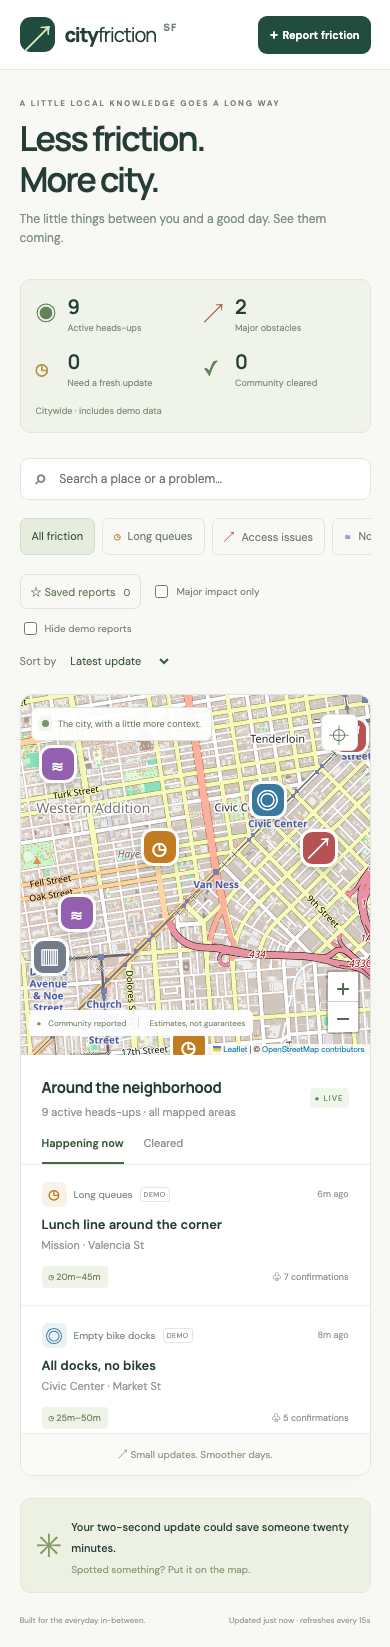
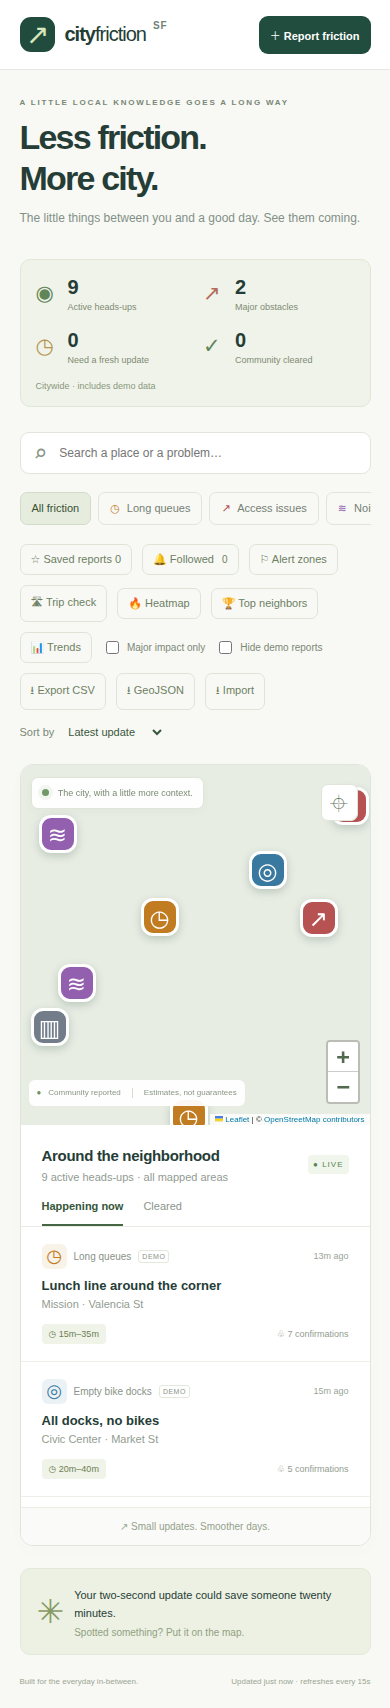
Refresh README screenshots and scope note for v1.2.0
- Regenerate all four screenshots (desktop, mobile, report detail,
  report form) against the current UI with alert zones, trip check,
  heatmap, neighbor notes, and flagging visible
- scripts/screenshots.js accepts SCREENSHOT_CHROME for systems
  without the Playwright browser bundle
- README scope note now reflects the moderation and rate limiting
  that shipped in v1.2.0

diff --git a/scripts/screenshots.js b/scripts/screenshots.js
@@ -3,7 +3,12 @@ import { mkdir } from "node:fs/promises";
 
 const base = process.argv[2] || "http://127.0.0.1:3000";
 await mkdir("docs/screenshots", { recursive: true });
-const browser = await chromium.launch();
+// CI installs the Playwright browser bundle; local runs can point at a
+// system Chromium with SCREENSHOT_CHROME=/path/to/chrome.
+const launchOptions = process.env.SCREENSHOT_CHROME
+  ? { executablePath: process.env.SCREENSHOT_CHROME }
+  : {};
+const browser = await chromium.launch(launchOptions);
 try {
   const page = await browser.newPage({
     viewport: { width: 1440, height: 1200 },

diff --git a/README.md b/README.md
@@ -8,7 +8,7 @@
 
 Spot long queues, blocked sidewalks, noisy roadwork, empty bike docks, closed restrooms, and poor reception. Share a heads-up, confirm what’s still there, and help the next person find a smoother day.
 
-![City overview with filters and interactive map](docs/screenshots/desktop.png)
+![City overview with filters, alert zones, trip check, heatmap, and interactive map](docs/screenshots/desktop.png)
 
 ## Features
 
@@ -33,7 +33,7 @@ Reports persist in SQLite and refresh across browsers every 15 seconds. The resp
 
 <table>
   <tr>
-    <td width="70%"><img src="docs/screenshots/report-detail.png" alt="Report details with confidence, community votes, save and share controls" /></td>
+    <td width="70%"><img src="docs/screenshots/report-detail.png" alt="Report details with confidence, community votes, neighbor notes, flagging, save and share controls" /></td>
     <td width="30%"><img src="docs/screenshots/mobile.png" alt="Mobile city overview, filters, map and report list" /></td>
   </tr>
   <tr><td align="center">Report details & community verification</td><td align="center">Mobile exploration</td></tr>
@@ -90,7 +90,7 @@ The suite covers report validation, geographic matching, vote conflicts, databas
 
 ## Project scope
 
-This is a working portfolio MVP scoped to San Francisco. Demo reports are fictional; clearance estimates are heuristics, not guarantees. Saved reports are browser-local, and shared links require access to the same server. Anonymous browser IDs are not verified identities. Public deployment would need authentication, moderation, rate limiting, and a suitable tile provider.
+This is a working portfolio MVP scoped to San Francisco. Demo reports are fictional; clearance estimates are heuristics, not guarantees. Saved reports are browser-local, and shared links require access to the same server. Anonymous browser IDs are not verified identities. Public deployment would still need real authentication, a suitable tile provider, and an `ADMIN_TOKEN` for the moderation endpoints.
 
 ## Credits
 
